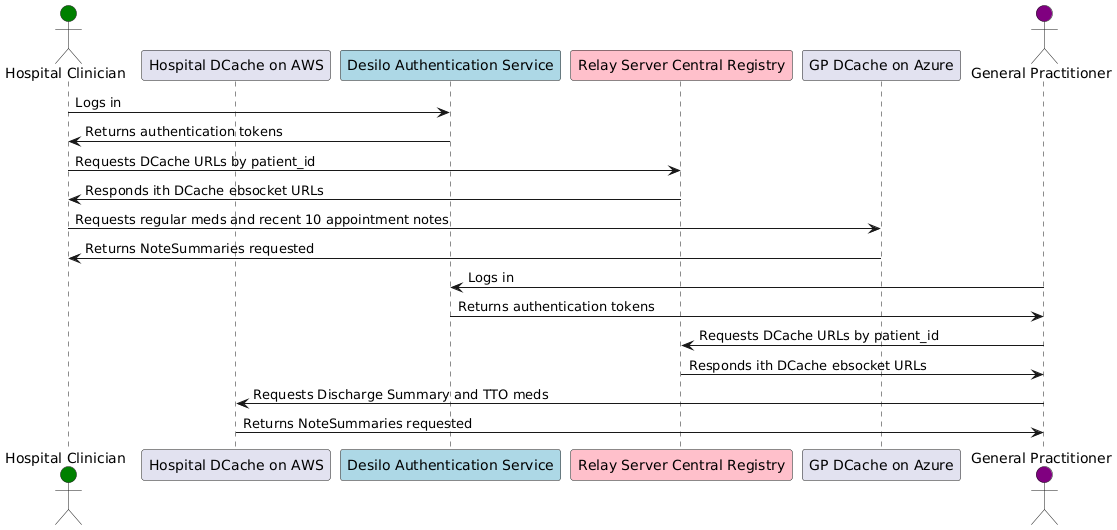
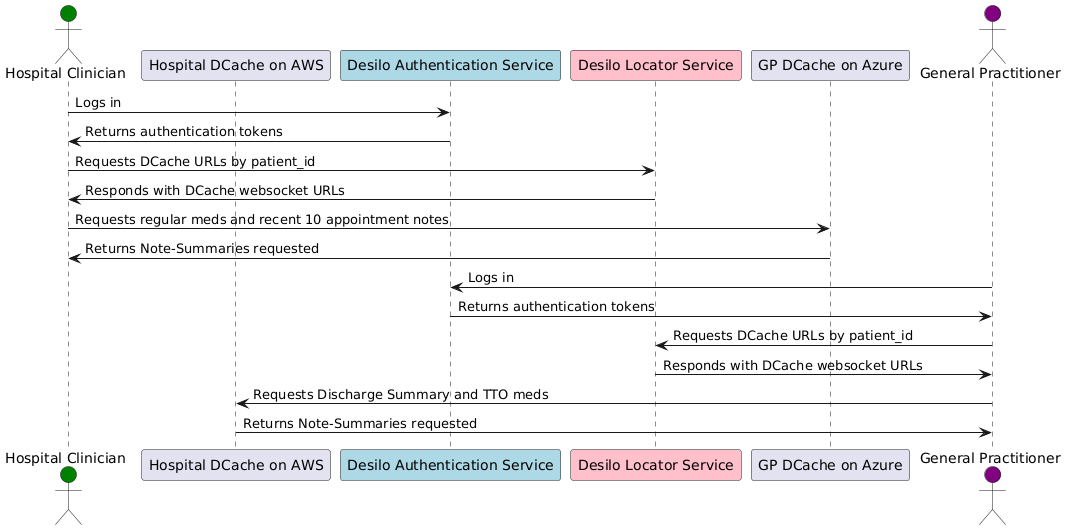
Update details, clarify diagram

diff --git a/README.md b/README.md
@@ -2,11 +2,25 @@
 
 As a junior doctor, I often faced the critical task of treating elderly patients who couldn't provide a reliable medical history in the middle of the night. With no family to call, no local records, and a closed GP surgery, the risk of missing life-saving medication was high. This struggle to piece together scattered and fragmented patient information is a challenge faced by clinicians worldwide. Desilo aims to solve this by securely fetching and sharing essential patient notes between hospital sites, providing a vital picture for healthcare providers.
 
-<img src="Resources/diagram.png">(https://github.com/drmikesamy/desilo/tree/main/Resources/diagram.png)
+[<img src="Resources/diagram.png">](https://github.com/drmikesamy/desilo/tree/main/Resources/diagram.png)
 
-Desilo is a simple and open protocol designed to securely fetch siloed patient notes between hospital sites using interoperability standards. It leverages a central authentication and authorisation provider, end-to-end encryption and signatures to ensure data security and integrity, and is built to be resilient without relying on any central trusted server which can be compromised, leading to the catastrophic data breaches we often see in the news, even from reputable companies.
+Desilo is a simple and open protocol designed to securely fetch siloed patient notes between hospital sites using interoperability standards. It leverages encrypted websocket connections and cryptographic signatures to ensure data security and integrity, and is built to be resilient without relying on a monolithic national patient database which can be compromised, leading to the catastrophic data breaches we often see in the news, even from reputable companies.
 
 The Desilo Protocol is inspired by the Nostr Protocol, but has been modified in order to meet the the data security and regulatory requirements of healthcare.
+
+### Desilo Authentication Service
+
+Due to the importance of robust authentication in healthcare, so only accredited healthcare providers can access patient data, a central Authentication Service is used, with issues JSON Web Tokens to allow both access and granular authentication grants so clinicians can have carefully scoped access.
+
+### Desilo Locator Service
+
+This is a simple lookup service which returns, for a given patient ID string, the websocket urls of DCache servers across the country which hold data about them.
+
+### Desilo DCaches
+
+The DCaches are where all the patient data snippets, or Note-Summaries, are stored for later retrieval by an authorised clinician. 
+
+DCaches are extremely simple, small and easy to set up servers which do two things. The first is that they store data in a database, namely FHIR snippets mapped to a patient identifier, with metadata tags and Kinds for easy filtering. The second is to expose an API which accepts a request with filter parameters. When queried, they verify the access token and send the data. When Note-Summaries are posted to them, they verify the access token and write the data to the database. That's all.
 
 ## How it works
 
